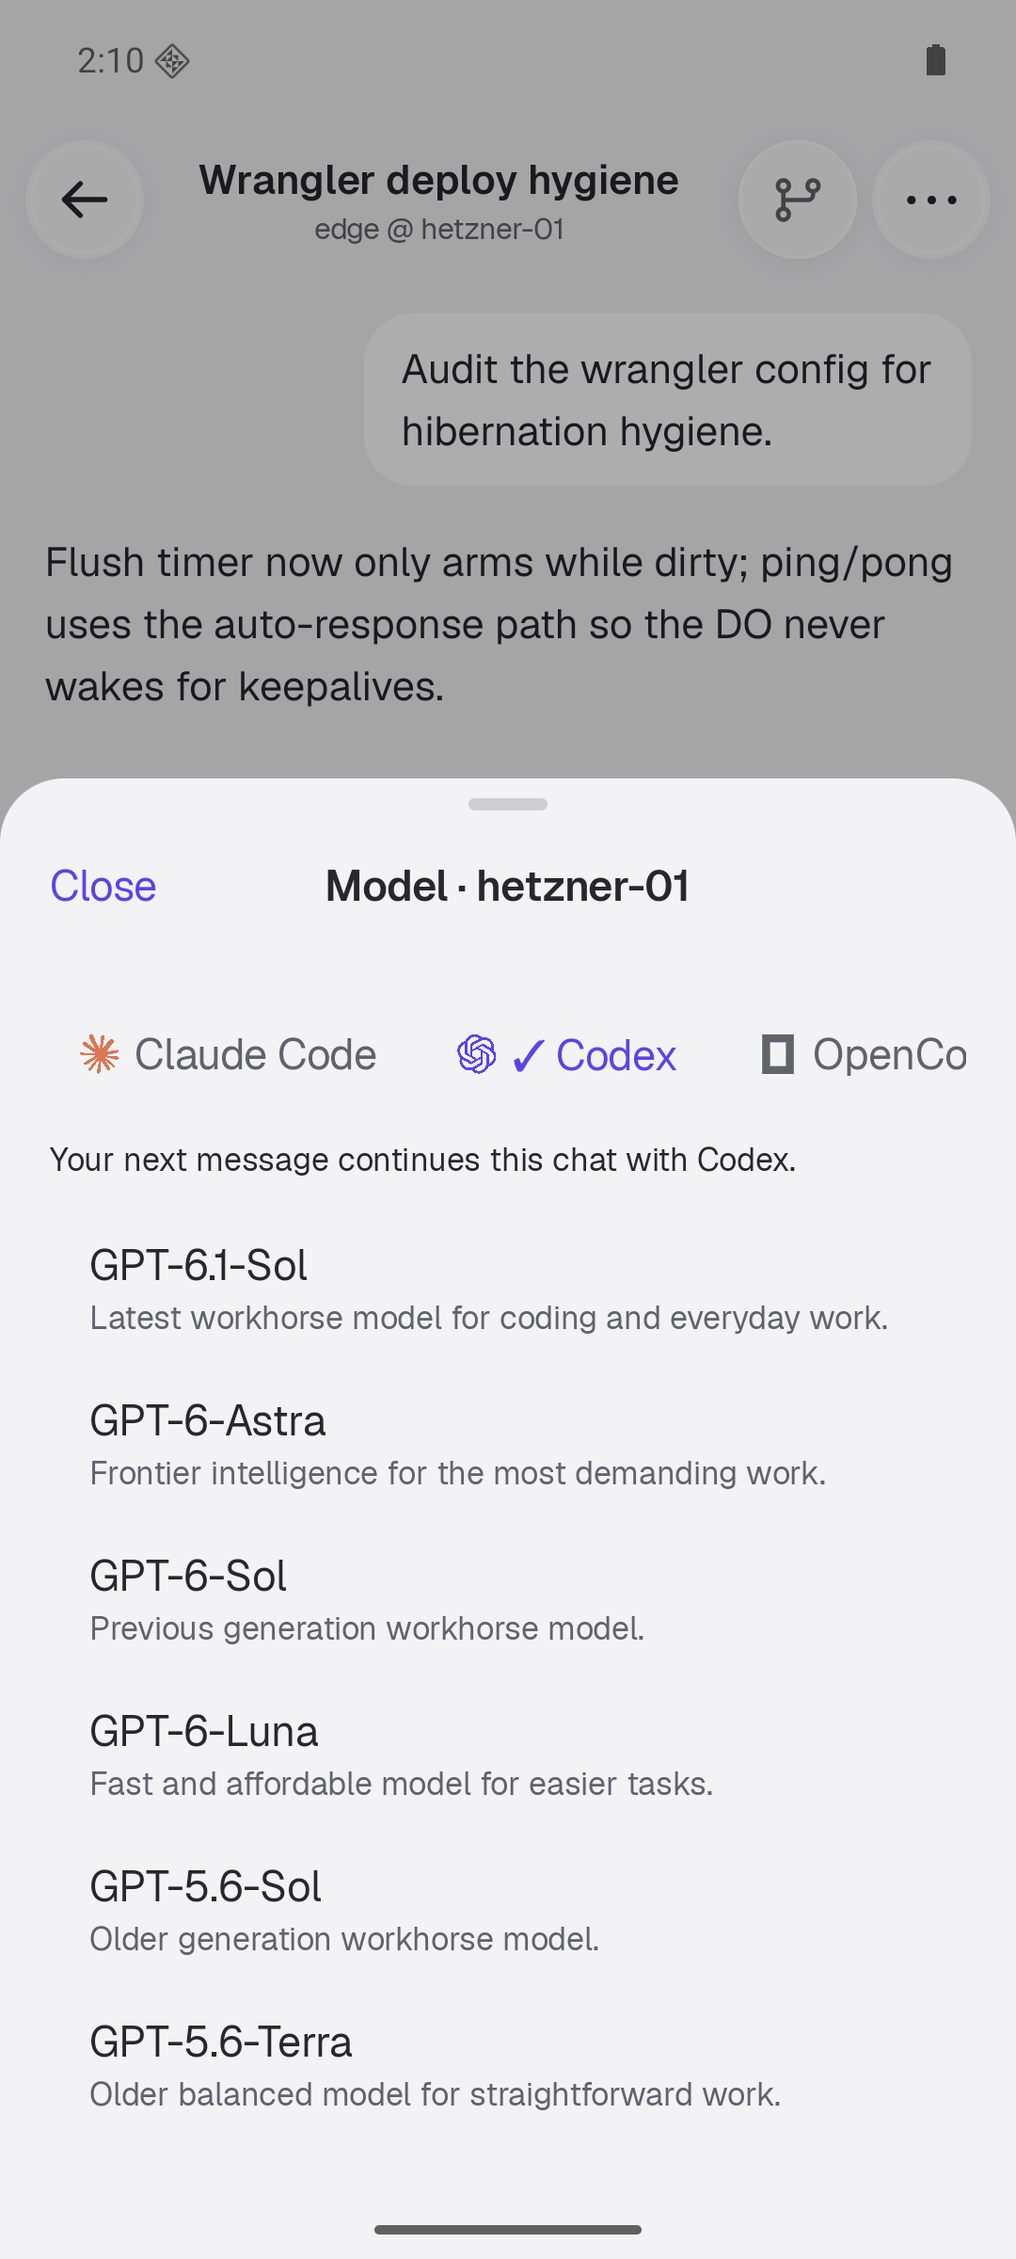
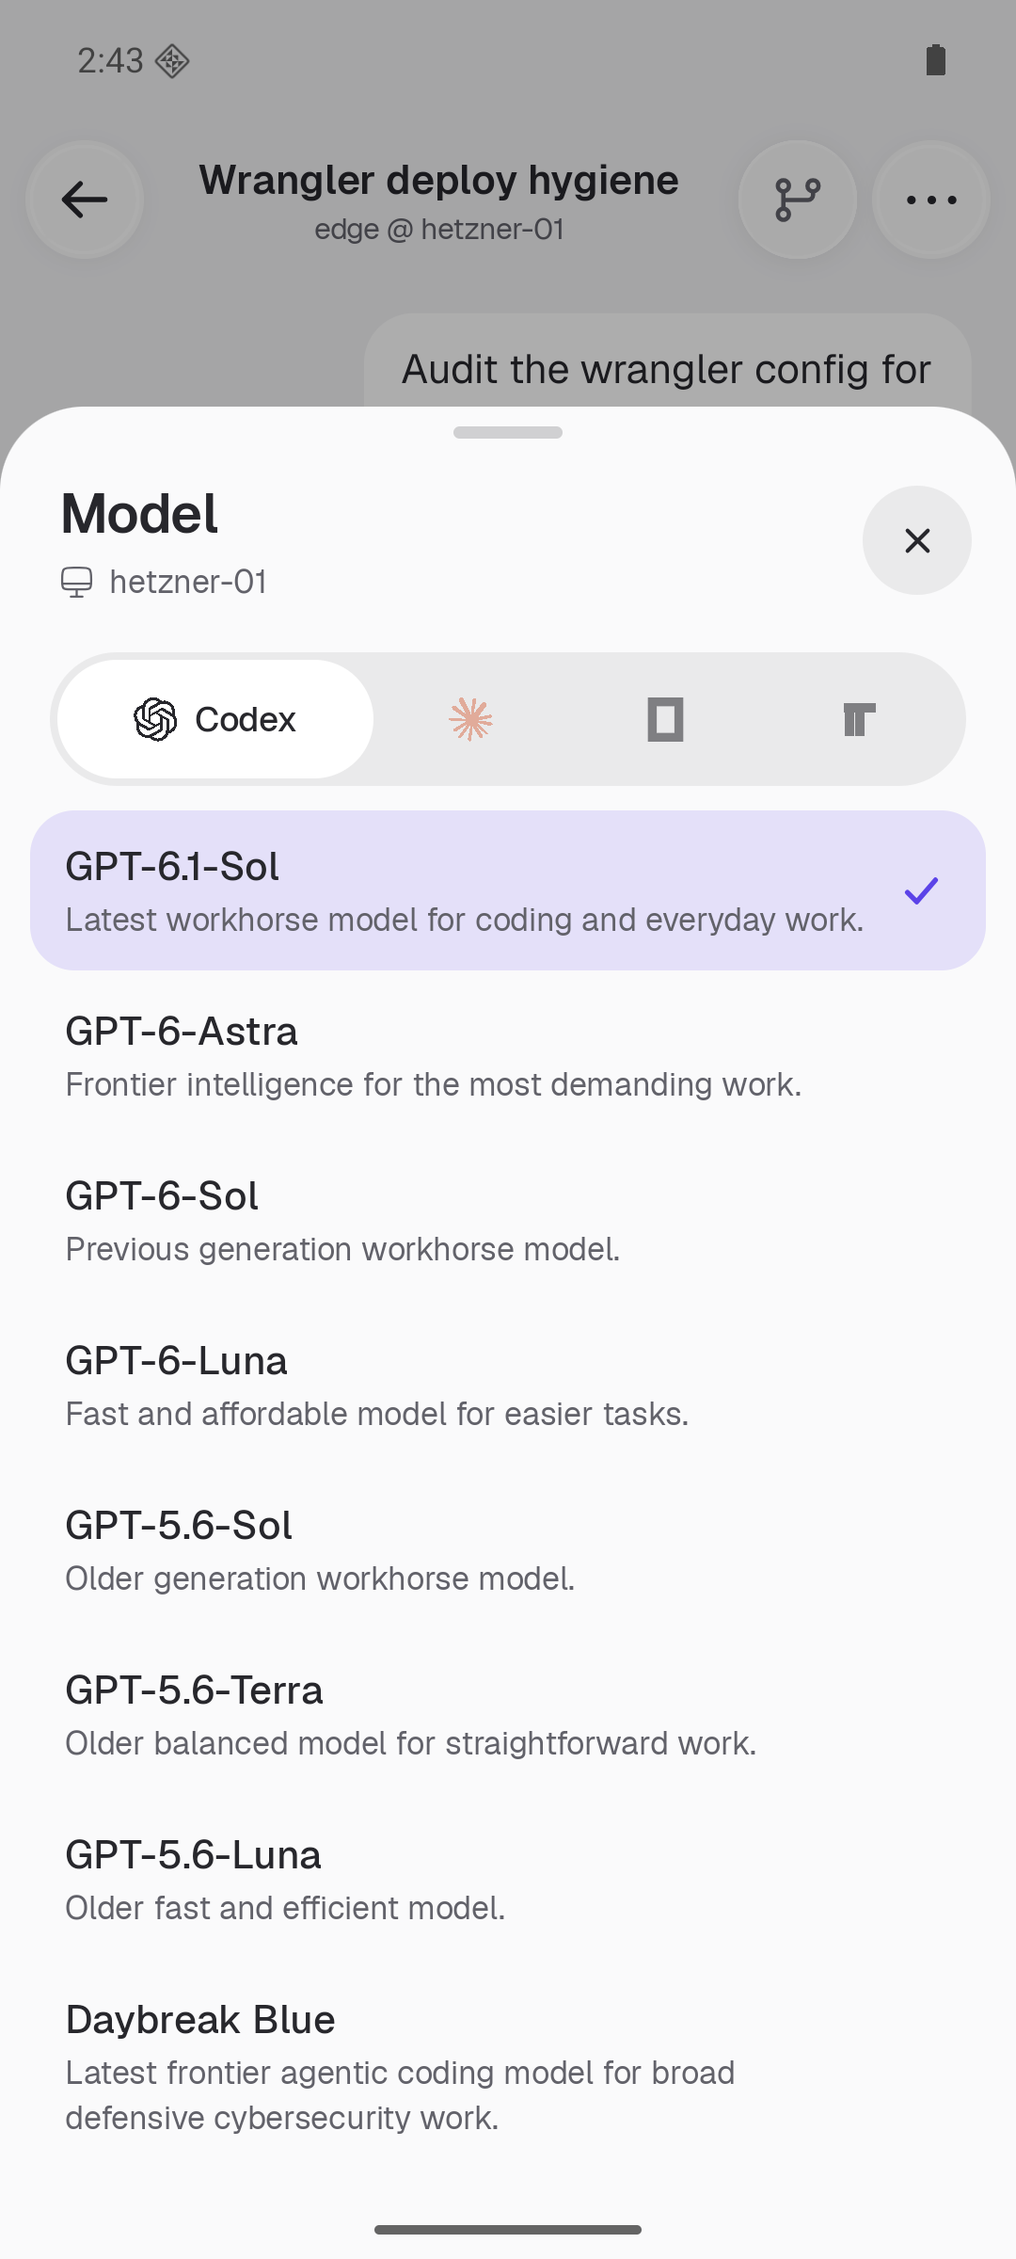
fix(android): match the iOS model picker layout

diff --git a/apps/android/app/src/main/java/sh/zeron/android/ui/SessionModelPicker.kt b/apps/android/app/src/main/java/sh/zeron/android/ui/SessionModelPicker.kt
@@ -1,20 +1,45 @@
 package sh.zeron.android.ui
 
+import androidx.compose.foundation.background
 import androidx.compose.foundation.horizontalScroll
 import androidx.compose.foundation.layout.*
 import androidx.compose.foundation.lazy.LazyColumn
 import androidx.compose.foundation.lazy.items
+import androidx.compose.foundation.relocation.BringIntoViewRequester
+import androidx.compose.foundation.relocation.bringIntoViewRequester
 import androidx.compose.foundation.rememberScrollState
+import androidx.compose.foundation.shape.CircleShape
+import androidx.compose.foundation.shape.RoundedCornerShape
 import androidx.compose.material3.MaterialTheme
+import androidx.compose.material3.ModalBottomSheet
 import androidx.compose.material3.Text
+import androidx.compose.material3.rememberModalBottomSheetState
 import androidx.compose.runtime.*
+import androidx.compose.ui.Alignment
 import androidx.compose.ui.Modifier
+import androidx.compose.ui.draw.clip
+import androidx.compose.ui.graphics.Color
+import androidx.compose.ui.graphics.graphicsLayer
+import androidx.compose.ui.platform.LocalConfiguration
+import androidx.compose.ui.platform.LocalDensity
 import androidx.compose.ui.platform.testTag
+import androidx.compose.ui.semantics.Role
+import androidx.compose.ui.semantics.contentDescription
+import androidx.compose.ui.semantics.semantics
+import androidx.compose.ui.semantics.selected
+import androidx.compose.ui.semantics.testTagsAsResourceId
+import androidx.compose.ui.text.rememberTextMeasurer
+import androidx.compose.ui.text.style.TextOverflow
 import androidx.compose.ui.unit.dp
+import androidx.compose.ui.unit.sp
 import kotlinx.coroutines.CancellationException
 import kotlinx.coroutines.launch
 import sh.zeron.android.design.HarnessMark
 import sh.zeron.android.design.ActivityIndicator
+import sh.zeron.android.design.LocalDarkTheme
+import sh.zeron.android.design.ZIcon
+import sh.zeron.android.design.ZIcons
+import sh.zeron.android.design.glassControlFill
 import uniffi.zeron_core.*
 
 internal fun canSwitchAgent(c: ComposerState) = c.host.capabilities.providerSwitch &&
@@ -42,53 +67,161 @@ internal fun SessionModelPicker(client: CoreClient, c: ComposerState, row: Sessi
     LaunchedEffect(client, c.host.deviceId, selected) {
         models = client.listModels(c.host.deviceId, selected)
     }
-    AppSheet("Model · ${c.host.name ?: "This computer"}", onDismiss = onDismiss) {
-        Column(Modifier.padding(20.dp), verticalArrangement = Arrangement.spacedBy(12.dp)) {
-            Row(Modifier.fillMaxWidth().horizontalScroll(rememberScrollState()), horizontalArrangement = Arrangement.spacedBy(8.dp)) {
-                val tabs = listOf(current to (row?.harnessLabel ?: harnessLabel(current))) + providers.map { it.id to it.label }
-                tabs.forEach { (id, label) ->
-                    AppTextButton(onClick = { selected = id; error = null }, enabled = !picking,
-                        modifier = Modifier.testTag("model-provider-$id"),
-                        color = if (selected == id) MaterialTheme.colorScheme.primary else MaterialTheme.colorScheme.onSurfaceVariant) {
-                        HarnessMark(id, 16.dp)
-                        Spacer(Modifier.width(6.dp))
-                        Text(if (selected == id) "✓ $label" else label)
-                    }
-                }
-            }
-            if (!switches) Text(when {
+    val tabs = listOf(current to (row?.harnessLabel ?: harnessLabel(current))) + providers.map { it.id to it.label }
+    ModelPickerSheet(c.host.name ?: "This computer", onDismiss) {
+        if (tabs.size > 1) {
+            ModelProviderTabs(tabs, selected, enabled = !picking) { selected = it; error = null }
+            Spacer(Modifier.height(10.dp))
+        }
+        val notice = when {
+            !switches -> when {
                 c.live.turnRunning -> "You can switch agent when this turn ends."
                 c.sendState == SendState.SENDING || c.sendState == SendState.QUEUED -> "You can switch agent after the pending message is delivered."
                 else -> "Update this computer's Zerun to switch agent."
-            }, style = MaterialTheme.typography.bodySmall)
-            if (selected != current) Text("Your next message continues this chat with ${harnessLabel(selected)}.", style = MaterialTheme.typography.bodySmall)
-            error?.let { Text(it, color = MaterialTheme.colorScheme.error) }
-            if (models == null) ActivityIndicator(Modifier.size(24.dp))
-            else LazyColumn(Modifier.weight(1f, fill = false).heightIn(max = 380.dp)) {
-                items(models.orEmpty(), key = { it.id }) { m ->
-                    MenuRow(m.label, m.description, enabled = !picking,
-                        selected = selected == current && m.id == (row?.model ?: models?.firstOrNull()?.id), selectable = true) {
-                        val pickedHarness = selected
-                        picking = true
-                        scope.launch {
-                            try {
-                                // Catalog lookup can suspend. Read live state after it, immediately before applying.
-                                if (pickedHarness != current) {
-                                    check(client.listHarnesses(c.host.deviceId).any { it.id == pickedHarness && it.offered }) { "This agent is no longer enabled on the computer." }
-                                }
-                                val config = checkNotNull(client.sessionConfig(c.chatId)) { "This chat is no longer available." }
-                                val latest = client.openSession(c.chatId).composer()
-                                check(latest.host.deviceId == c.host.deviceId) { "This chat has moved to a different computer. Reopen the model picker." }
-                                check(pickedHarness == config.harness || canSwitchAgent(latest)) { "Wait for the pending turn or message before switching agent." }
-                                client.setSessionConfig(c.chatId, modelSelection(config, pickedHarness, m.id))
-                                onDismiss()
-                            } catch (cancelled: CancellationException) { throw cancelled }
-                            catch (failure: Exception) { error = failure.message ?: "Couldn't change the model." }
-                            finally { picking = false }
+            }
+            selected != current -> "Your next message continues this chat with ${harnessLabel(selected)}."
+            else -> null
+        }
+        if (notice != null) {
+            Row(Modifier.padding(horizontal = 12.dp).fillMaxWidth().clip(RoundedCornerShape(14.dp))
+                .background(glassControlFill()).padding(12.dp),
+                verticalAlignment = Alignment.CenterVertically, horizontalArrangement = Arrangement.spacedBy(8.dp)) {
+                ZIcon(ZIcons.Info, null, Modifier.size(16.dp), tint = MaterialTheme.colorScheme.onSurfaceVariant)
+                Text(notice, style = MaterialTheme.typography.bodySmall, color = MaterialTheme.colorScheme.onSurfaceVariant)
+            }
+            Spacer(Modifier.height(10.dp))
+        }
+        error?.let { Text(it, color = MaterialTheme.colorScheme.error, modifier = Modifier.padding(horizontal = 26.dp, vertical = 8.dp)) }
+        if (models == null) {
+            Box(Modifier.fillMaxWidth().height(160.dp), contentAlignment = Alignment.Center) { ActivityIndicator(Modifier.size(24.dp)) }
+        } else if (models.isNullOrEmpty()) {
+            Box(Modifier.fillMaxWidth().height(160.dp), contentAlignment = Alignment.Center) {
+                Text("No models available", color = MaterialTheme.colorScheme.onSurfaceVariant)
+            }
+        } else {
+            key(selected) {
+                LazyColumn(Modifier.weight(1f, fill = false).testTag("model-picker-list-$selected"),
+                    contentPadding = PaddingValues(start = 12.dp, end = 12.dp, bottom = 20.dp),
+                    verticalArrangement = Arrangement.spacedBy(2.dp)) {
+                    items(models.orEmpty(), key = { it.id }) { m ->
+                        ModelPickerRow(m, enabled = !picking,
+                            isCurrent = selected == current && m.id == (row?.model ?: models?.firstOrNull()?.id)) {
+                            val pickedHarness = selected
+                            picking = true
+                            scope.launch {
+                                try {
+                                    // Catalog lookup can suspend. Read live state after it, immediately before applying.
+                                    if (pickedHarness != current) {
+                                        check(client.listHarnesses(c.host.deviceId).any { it.id == pickedHarness && it.offered }) { "This agent is no longer enabled on the computer." }
+                                    }
+                                    val config = checkNotNull(client.sessionConfig(c.chatId)) { "This chat is no longer available." }
+                                    val latest = client.openSession(c.chatId).composer()
+                                    check(latest.host.deviceId == c.host.deviceId) { "This chat has moved to a different computer. Reopen the model picker." }
+                                    check(pickedHarness == config.harness || canSwitchAgent(latest)) { "Wait for the pending turn or message before switching agent." }
+                                    client.setSessionConfig(c.chatId, modelSelection(config, pickedHarness, m.id))
+                                    onDismiss()
+                                } catch (cancelled: CancellationException) { throw cancelled }
+                                catch (failure: Exception) { error = failure.message ?: "Couldn't change the model." }
+                                finally { picking = false }
+                            }
                         }
                     }
                 }
             }
         }
+    }
+}
+
+/** This picker has the iOS model sheet's two-line header, rather than a navigation bar. */
+@Composable
+private fun ModelPickerSheet(host: String, onDismiss: () -> Unit, content: @Composable ColumnScope.() -> Unit) {
+    ModalBottomSheet(
+        onDismissRequest = onDismiss,
+        sheetState = rememberModalBottomSheetState(skipPartiallyExpanded = true),
+        sheetMaxWidth = 560.dp,
+        shape = RoundedCornerShape(topStart = 34.dp, topEnd = 34.dp),
+        // A modal lives in a separate window: use tonal material without sampling the page's backdrop.
+        containerColor = if (LocalDarkTheme.current) MaterialTheme.colorScheme.surfaceContainerHighest else MaterialTheme.colorScheme.surfaceContainerLow,
+        contentColor = MaterialTheme.colorScheme.onSurface,
+        tonalElevation = 0.dp,
+        dragHandle = {
+            Box(Modifier.padding(top = 8.dp).size(44.dp, 5.dp).clip(CircleShape)
+                .background(MaterialTheme.colorScheme.onSurface.copy(alpha = 0.2f)))
+        },
+    ) {
+        Column(Modifier.fillMaxWidth().heightIn(max = (LocalConfiguration.current.screenHeightDp * 0.78f).dp)
+            .semantics { testTagsAsResourceId = true }) {
+            Row(Modifier.fillMaxWidth().padding(start = 24.dp, end = 18.dp, top = 16.dp, bottom = 20.dp),
+                verticalAlignment = Alignment.CenterVertically, horizontalArrangement = Arrangement.spacedBy(12.dp)) {
+                Column(Modifier.weight(1f), verticalArrangement = Arrangement.spacedBy(5.dp)) {
+                    Text("Model", style = MaterialTheme.typography.headlineSmall)
+                    Row(verticalAlignment = Alignment.CenterVertically, horizontalArrangement = Arrangement.spacedBy(6.dp)) {
+                        ZIcon(ZIcons.Monitor, null, Modifier.size(14.dp), tint = MaterialTheme.colorScheme.onSurfaceVariant)
+                        Text(host, style = MaterialTheme.typography.bodySmall, color = MaterialTheme.colorScheme.onSurfaceVariant,
+                            maxLines = 1, overflow = TextOverflow.Ellipsis)
+                    }
+                }
+                PlainIconButton(ZIcons.Close, "Close model picker", onDismiss,
+                    modifier = Modifier.background(glassControlFill(), CircleShape))
+            }
+            content()
+        }
+    }
+}
+
+/** Keep names when they fit; on a crowded host, only the selected agent keeps its label. */
+@Composable
+private fun ModelProviderTabs(tabs: List<Pair<String, String>>, selected: String, enabled: Boolean, onSelect: (String) -> Unit) {
+    val style = MaterialTheme.typography.titleSmall.copy(fontSize = 14.sp)
+    val measurer = rememberTextMeasurer()
+    val density = LocalDensity.current
+    val labels = tabs.map { (_, label) -> if (label == "Claude Code") "Claude" else label }
+    val natural = labels.map { label -> with(density) { measurer.measure(label, style, softWrap = false).size.width.toDp() } + 55.dp }
+    BoxWithConstraints(Modifier.padding(horizontal = 20.dp).fillMaxWidth().clip(CircleShape).background(glassControlFill())) {
+        val available = maxWidth - 6.dp
+        val compact = natural.map { it.value }.sum() > available.value
+        val widths = tabs.indices.map { if (compact && tabs[it].first != selected) 48.dp else natural[it].coerceAtLeast(48.dp) }
+        val extra = ((available.value - widths.map { it.value }.sum()) / tabs.size).coerceAtLeast(0f).dp
+        Row(Modifier.horizontalScroll(rememberScrollState()).padding(3.dp), verticalAlignment = Alignment.CenterVertically) {
+            tabs.forEachIndexed { index, (id, label) ->
+                val active = id == selected
+                val bringIntoView = remember(id) { BringIntoViewRequester() }
+                LaunchedEffect(active) { if (active) bringIntoView.bringIntoView() }
+                val fill = if (!active) Color.Transparent else if (LocalDarkTheme.current) Color.White.copy(alpha = 0.14f) else Color.White
+                Row(Modifier.width(widths[index] + extra).heightIn(min = 48.dp).bringIntoViewRequester(bringIntoView)
+                    .testTag("model-provider-$id").clip(CircleShape).background(fill)
+                    .pressable(enabled, role = Role.Tab) { onSelect(id) }
+                    .semantics { contentDescription = label; this.selected = active },
+                    horizontalArrangement = Arrangement.Center, verticalAlignment = Alignment.CenterVertically) {
+                    HarnessMark(id, 18.dp, Modifier.graphicsLayer { alpha = if (!enabled) 0.3f else if (active) 1f else 0.55f })
+                    if (!compact || active) {
+                        Spacer(Modifier.width(7.dp))
+                        Text(labels[index], style = style,
+                            color = if (active) MaterialTheme.colorScheme.onSurface else MaterialTheme.colorScheme.onSurfaceVariant,
+                            maxLines = 1)
+                    }
+                }
+            }
+        }
+    }
+}
+
+@Composable
+private fun ModelPickerRow(model: ModelInfo, enabled: Boolean, isCurrent: Boolean, onClick: () -> Unit) {
+    Row(Modifier.fillMaxWidth().testTag("model-picker-row-${model.id}").clip(RoundedCornerShape(18.dp))
+        .background(if (isCurrent) MaterialTheme.colorScheme.primary.copy(alpha = 0.14f) else Color.Transparent)
+        .pressable(enabled, role = Role.RadioButton, onClick = onClick).semantics { selected = isCurrent }
+        .heightIn(min = 62.dp).padding(start = 14.dp, end = 16.dp, top = 12.dp, bottom = 12.dp),
+        verticalAlignment = Alignment.CenterVertically, horizontalArrangement = Arrangement.spacedBy(12.dp)) {
+        Column(Modifier.weight(1f), verticalArrangement = Arrangement.spacedBy(3.dp)) {
+            Text(model.label, style = MaterialTheme.typography.titleMedium.copy(fontSize = 16.sp),
+                color = MaterialTheme.colorScheme.onSurface.copy(alpha = if (enabled) 1f else 0.4f))
+            model.description?.takeIf { it.isNotBlank() }?.let {
+                Text(it, style = MaterialTheme.typography.bodySmall, maxLines = 2, overflow = TextOverflow.Ellipsis,
+                    color = MaterialTheme.colorScheme.onSurfaceVariant.copy(alpha = if (enabled) 1f else 0.4f))
+            }
+        }
+        if (isCurrent) ZIcon(ZIcons.Check, null, Modifier.size(20.dp), tint = MaterialTheme.colorScheme.primary)
+        else Spacer(Modifier.width(20.dp))
     }
 }

diff --git a/apps/android/app/src/androidTest/java/sh/zeron/android/ui/ProviderParityFlowTest.kt b/apps/android/app/src/androidTest/java/sh/zeron/android/ui/ProviderParityFlowTest.kt
@@ -48,9 +48,10 @@ class ProviderParityFlowTest {
             await { canSwitchAgent(core.openSession("chat-deploy").composer()) }
             requireNotNull(device.wait(Until.findObject(By.clazz("android.widget.EditText")), 5_000)).click()
             text(model.row("chat-deploy")!!.modelLabel!!).click()
-            text("Codex").click()
+            requireNotNull(device.wait(Until.findObject(By.desc("Codex")), 5_000)).click()
             val host = core.openSession("chat-deploy").composer().host.deviceId
             val picked = runBlocking { core.listModels(host, "codex") }.first()
+            assertEquals("Browsing an agent's models must not change the chat", original, core.sessionConfig("chat-deploy"))
             text(picked.label).click()
             await { core.sessionConfig("chat-deploy")?.harness == "codex" }
             val config = core.sessionConfig("chat-deploy")!!

diff --git a/docs/screenshots/android-ios-parity/README.md b/docs/screenshots/android-ios-parity/README.md
@@ -26,21 +26,29 @@ adb shell am start -n work.puqing.zerun.android/sh.zeron.android.MainActivity \
   offered agents, enable switches and account summaries.
 - `accounts.png`: open Claude Code to see the active account, switch action,
   plans, usage windows, removal actions and the add-account entry.
-- `model-picker.png`: launch with `--es route chat:chat-deploy`, tap the composer,
-  then its model chip, and select the Codex tab. The list comes from the shared
+- `model-picker.png` / `model-picker-dark.png`: light and dark captures of the
+  model sheet, following the iOS layout: left-aligned title and computer name,
+  circular close control, capsule agent strip and a soft violet current-model
+  highlight. Launch with `--es route chat:chat-deploy`, tap the composer and its
+  model chip, browse Codex and choose GPT-6.1-Sol, then reopen the sheet. The
+  screenshots show that committed selection. The list comes from the shared
   core catalog. Selecting a tab alone does not change the chat's agent; picking
-  a model commits the choice. The tab strip scrolls horizontally.
+  a model commits the choice. When names do not fit, only the selected agent
+  keeps its name; the other icons retain full accessibility labels. The strip
+  scrolls horizontally. Change Appearance in Settings for each capture.
 - `delete-confirmation.png`: close the picker, open the chat's More menu and
   choose Delete. The capture stops at confirmation; Cancel was used afterward.
 
 ## Verification boundary
 
-Local verification: 45 JVM unit tests and 8 selected emulator UI tests passed,
-with no failures or skips, and Debug packaging succeeded. The UI selection was
-`ProviderParityFlowTest` (5 tests), plus `ShellFlowTest`'s
-`newSessionDraftKeepsItsTargetAfterClose`,
-`newSessionDraftKeepsItsTargetAfterSystemBack`, and
-`leavingQueuedEditRestoresTheUnsentDraft`.
+After the model sheet update, 45 JVM unit tests and all 5
+`ProviderParityFlowTest` emulator UI tests passed with no failures or skips;
+Debug packaging succeeded. The agent-switch test selects the icon-only Codex
+tab by its accessibility label and asserts that browsing leaves the chat
+configuration unchanged before choosing a model. At the preceding revision
+(`1add963a`), these tests and 3 `ShellFlowTest` close, system-Back and queued-edit
+draft regressions passed together (8 tests); the shell implementation did not
+change in this visual update.
 
 The suite retains strict draft, queue, skill-identity and attachment assertions.
 Navigation waits select the app's Back control and the session row by id after
